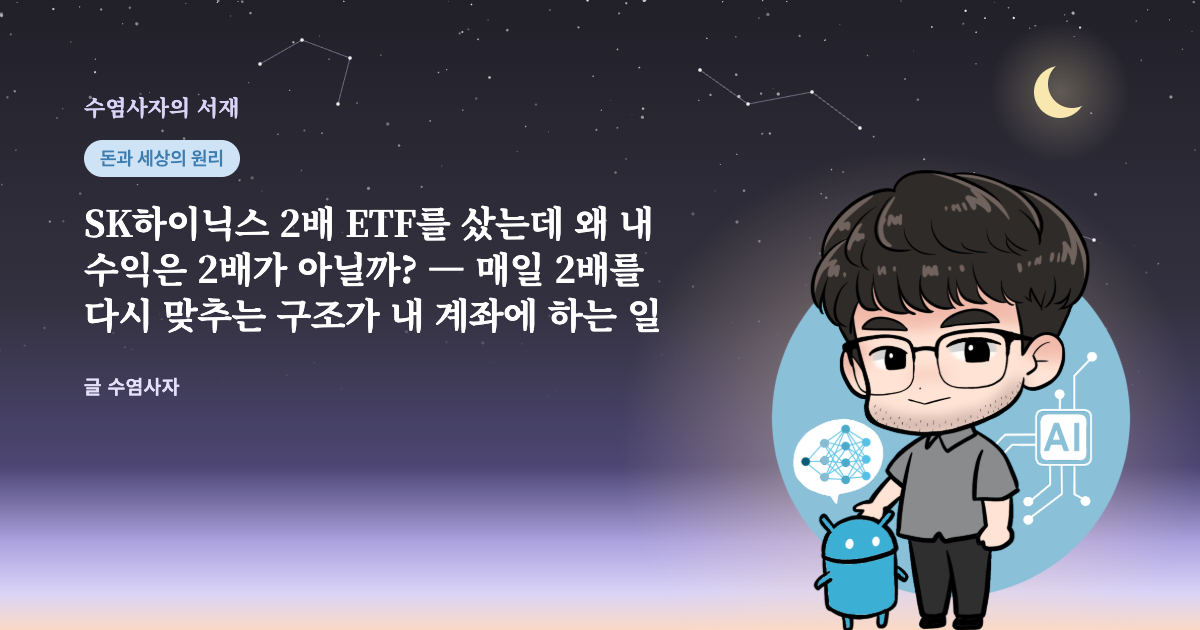
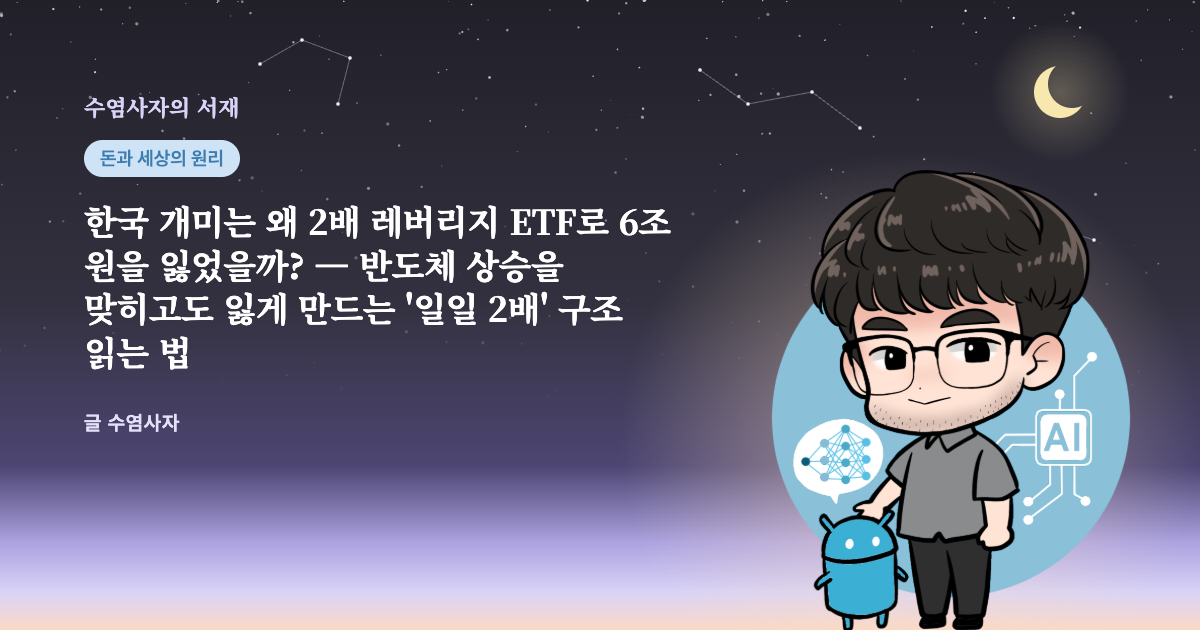
post: 레버리지 ETF 글 제목을 한국 개미·6조 원 손실이 보이게 고침 (Fable)
Claude-Session: https://claude.ai/code/session_01J36DQQsi1iZDy94NMGj8jH

Changed region(s): [[0.0617, 0.3317, 0.555, 0.6937]]

diff --git a/posts/leveraged-etf-daily/post.html b/posts/leveraged-etf-daily/post.html
@@ -3,7 +3,7 @@
 <head>
 <meta charset="utf-8">
 <meta name="viewport" content="width=device-width, initial-scale=1">
-<title>SK하이닉스 2배 ETF를 샀는데 왜 내 수익은 2배가 아닐까? — 매일 2배를 다시 맞추는 구조가 내 계좌에 하는 일</title>
+<title>한국 개미는 왜 2배 레버리지 ETF로 6조 원을 잃었을까? — 반도체 상승을 맞히고도 잃게 만드는 '일일 2배' 구조 읽는 법</title>
 <meta name="description" content="방향을 맞히고도 레버리지 ETF에서 돈을 잃는 이유는 무엇일까요? 2026년 한국 단일종목 레버리지 ETF 사태를 사례로, 일일 재조정이 개인의 계좌와 시장 전체를 어떻게 흔드는지 원 자료와 계산으로 풀어 봅니다.">
 <link rel="stylesheet" href="https://cdn.jsdelivr.net/gh/orioncactus/pretendard/dist/web/static/pretendard.css">
 <style>
@@ -57,7 +57,7 @@
 </head>
 <body>
 <article>
-<h1>SK하이닉스 2배 ETF를 샀는데 왜 내 수익은 2배가 아닐까? — 매일 2배를 다시 맞추는 구조가 내 계좌에 하는 일</h1>
+<h1>한국 개미는 왜 2배 레버리지 ETF로 6조 원을 잃었을까? — 반도체 상승을 맞히고도 잃게 만드는 '일일 2배' 구조 읽는 법</h1>
 <div class="meta">2026-11-01 · 약 11분 분량 · 글 수염사자</div>
 
 <p class="lead-quote">"SK하이닉스는 어차피 오를 거잖아요. 그럼 2배짜리를 사면 두 배로 버는 거죠."</p>
